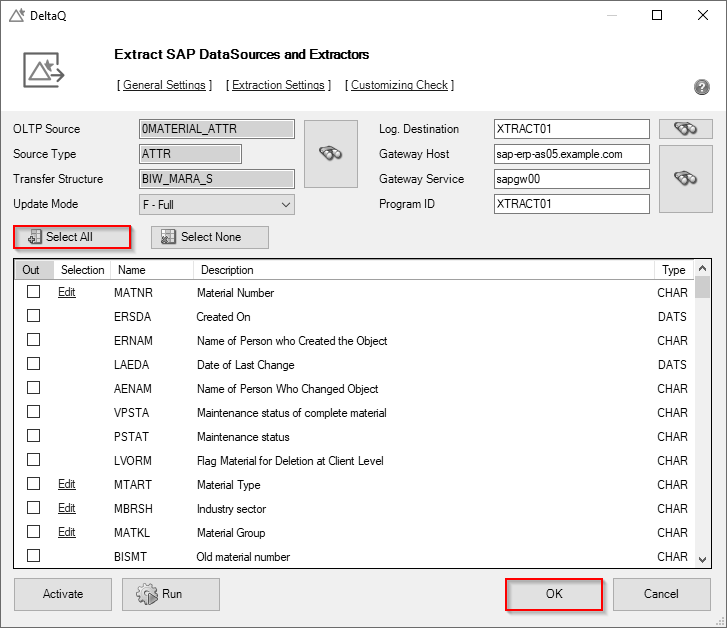
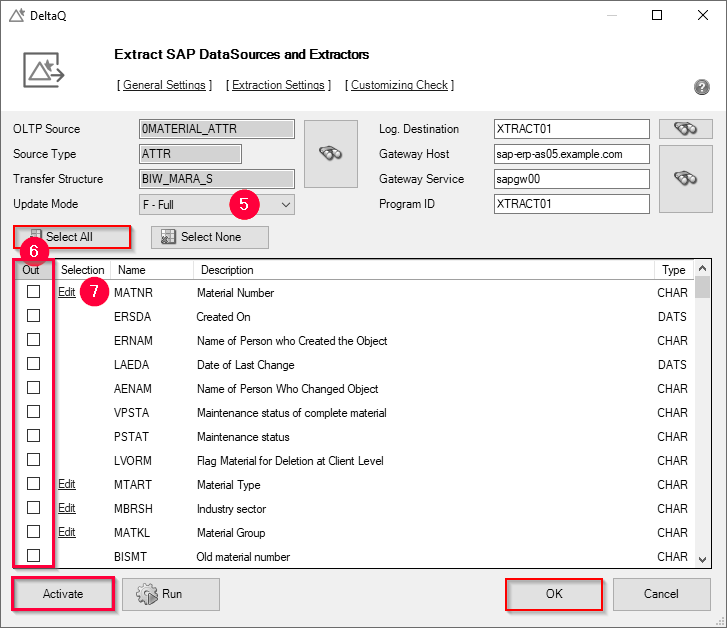
Define Extraction

Changed region(s): [[0.0, 0.3631, 0.1816, 0.9984], [0.3026, 0.3025, 0.3631, 0.3631]]

diff --git a/_includes/_content/de/datasource-deltaq/eine-deltaq-quelle-definieren.md b/_includes/_content/de/datasource-deltaq/eine-deltaq-quelle-definieren.md
@@ -1,38 +1,34 @@
-### Schritt 1: Extraktor suchen (1)
+### Einen Extraktor finden
 
-Suchen Sie im Editor "Look Up OLTP Source" mit Hilfe der **Suche** (Lupensymbol) nach **OLTP Source** (Datenquelle). Bei Bedarf können Sie Wildcards (*) verwenden.
-
-Das folgende Beispiel zeigt den Download von Materialstammdaten aus der DataSource *0MATERIAL_ATTR*.
-
-![search-ds-mat-attr](/img/content/search-ds-mat-attr.png){:class="img-responsive"}
-
+1. Klicken Sie auf den **[Suchen]** Button (Vergrößerungsglas) im Hauptfenster der DeltaQ-Komponente. Das Fenster “Look Up OLTP Source” öffnet sich.<br>
 ![search-ds-mat-attr](/img/content/search-ds-mat-attr2.png){:class="img-responsive"}
+2. Geben Sie den Namen oder die Beschreibung einer Datenquelle ein (1). Verwenden Sie Wildcards (*), falls nötig.
+3. Klicken Sie auf **[Suchen]** (2) und wählen Sie den Report Ihrer Wahl aus der angezeigten Liste aus (3).<br>
+Das folgende Beispiel zeigt den Download von Materialstammdaten aus der DataSource *0MATERIAL_ATTR*.
+4. Bestätigen Sie die Auswahl mit **[OK]** (4).
 
-### Schritt 2: Update Mode einstellen (2)
+### Eine DeltaQ-Extraktion definieren
+Nachdem Sie einen Extraktor gefunden haben, führen Sie die folgenden Schritte aus:
 
-Das **Full** Update fordert alle Daten an, die den von Ihnen eingestellten Auswahlkriterien entsprechen. Um eine echte **Delta**-Prozedur zum Laufen zu bringen, muss das Delta zunächst initialisiert werden, siehe unter [Delta](./datasource-delta).<br>
-Um eine Übersicht zu erhalten, welche Aktualisierungsmodi zur Verfügung stehen, siehe unter [Update Mode](./update-modus).
-
-### Schritt 3: Spalten auswählen
-
-Setzen Sie die Häkchen neben den Spalten, die Sie extrahieren möchten. Beispiel:
-
+1. Wählen Sie einen *Update Mode* aus (5). <br>
+Das **Full** Update fordert alle Daten an, die den von Ihnen eingestellten Auswahlkriterien entsprechen. 
+Um eine echte **Delta**-Prozedur zum Laufen zu bringen, muss das Delta zunächst initialisiert werden, siehe unter [Delta](./datasource-delta).<br>
+Für mehr Informationen zu den verfügbaren Aktualisierungsmodi, siehe [Update Mode](./update-modus).
+2. Setzen Sie die Häkchen neben den Spalten, die Sie extrahieren möchten (6).<br>
 ![Deltaq-Define-Data-Source-Filled](/img/content/Deltaq-Define-Data-Source-Filled.png){:class="img-responsive"}
-
-### Schritt 4: Aktivierung
-
-Wenn die Validierung ohne Fehler abgeschlossen wurde, klicken Sie auf **[Activate]**, um diese Extraktion in SAP zu aktivieren.<br> 
-Nach erfolgreicher Aktivierung erscheinen im Laufe einiger Sekunden die entsprechenden Statusmeldungen:
-
-![Deltaq-System-Parameters-Info](/img/content/Deltaq-System-Parameters-Info.png){:class="img-responsive"}
-
+3. Optional: Fügen Sie falls nötig unter **Selection** Auswahlfilter hinzu (7), um Ihre Daten zu filtern. Für mehr Informationen zu Filtern, siehe [Datasource Parameters](./datasource-parameter).<br>
+4. Validieren Sie Ihre Einstellungen, indem Sie eine Testextraktion ausführen.
+5. Wenn die Validierung ohne Fehler abgeschlossen wurde, klicken Sie auf **[Activate]**, um die Extraktion in SAP zu aktivieren.<br> 
+Nach erfolgreicher Aktivierung erscheinen im Laufe einiger Sekunden die entsprechenden Statusmeldungen:<br>
+![Deltaq-System-Parameters-Info](/img/content/Deltaq-System-Parameters-Info.png){:class="img-responsive"}<br>
 ![Deltaq-Generation-Successfull-Info](/img/content/Deltaq-Generation-Successfull-Info.png){:class="img-responsive"}
 
-Die Aktivierung muss nur für die Modi **Delta**, **Full** oder **Init** durchgeführt werden.
-Löschen Sie die alte Aktivierung, bevor Sie eine neue starten, siehe unter **[Extraction Settings]**.
-Nehmen Sie keine Aktivierung für den Modus **Delta Update** vor. 
+{: .box-note } 
+**Hinweis:** Die Aktivierung muss nur für die Modi **Delta**, **Full** oder **Init** durchgeführt werden. Nehmen Sie keine Aktivierung für den Modus **Delta Update** vor. 
+Bevor Sie eine neue Aktivierung starten, löschen Sie die alte Aktivierung.
 
-### Variablen und Filter
+
+### Variablen
 
 **Variablen** können für die folgenden Einstellungen verwendet werden:
 * **Log. Destination**, 
@@ -40,8 +36,9 @@ Nehmen Sie keine Aktivierung für den Modus **Delta Update** vor.
 * **Gateway Service**,
 * **Program ID**.  
 
-Der **Update Mode** kann auch über eine Variable gesteuert werden, siehe unter **[Extraction Settings]**.
+Der **Update Mode** und **Selection**-Filter können ebenfalls über Variablen gesteuert werden, siehe [Update Mode](./update-modus) und [Datasource Parameters](./datasource-parameter).
 
-**Selection** siehe unter [Datasource Parameters](./datasource-parameter).
- 
-Im Falle von Fehlern siehe [DeltaQ Troubleshooting Guide](https://kb.theobald-software.com/troubleshooting/deltaq-troubleshooting-guide) (in Englisch).
+
+******
+#### Weiterführende Links
+- [DeltaQ Troubleshooting Guide](https://kb.theobald-software.com/troubleshooting/deltaq-troubleshooting-guide).

diff --git a/_includes/_content/en/datasource-deltaq/extraction-define.md b/_includes/_content/en/datasource-deltaq/extraction-define.md
@@ -1,40 +1,36 @@
-### Step 1: Search for extractor (1)
+### Look Up Extractors
 
-Within the editor "Look Up OLTP Source", search for **OLTP Source** (Data Source) by using the **Search** (magnifying glass symbol). You can use wildcards (*), if needed.
-
-The search dialoge "Look Up OLTP Source" opens.
-![search-ds-mat-attr](/img/content/search-ds-mat-attr.png){:class="img-responsive"}
-
-The following example shows the download of material master data from the DataSource *0MATERIAL_ATTR*.
+1. Click **[Search]** (binoculars icon) in the main window of the component. The window “Look Up OLTP Source” opens.
 ![search-ds-mat-attr](/img/content/search-ds-mat-attr2.png){:class="img-responsive"}
+2. Enter a name or description of a *DataSource* (1). Use wildcards ( * ), if needed.
+3. Click **[Search]** (magnifying glass icon) (2) and select the extractor of your choice from the displayed list (3).
+The following example shows the download of material master data from the DataSource *0MATERIAL_ATTR*.
+4. Click **[OK]** (4) to confirm your selection.
 
-### Step 2: Set Update Mode (2)
+### Defining a DeltaQ Extraction
 
+After selecting an Extractor, follow the steps below:
+
+1. Choose an *Update Mode* (5).<br>
 **Full Update** requests all data that meets the selection criteria you set. To get a real **Delta** procedure running, Delta first has to be initialized, see at [Delta](./datasource-delta).<br>
-To get an overview which update modes are available, see at [Update Mode](./update-mode).
-
-### Step 3: Select Columns
-
-Tick the checkmarks next to the columns you would like to extract. See the following example:
-
+For more information on available update modes, see [Update Mode](./update-mode).
+2. Check the boxes of the columns you want to extract (6).<br>
 ![Deltaq-Define-Data-Source-Filled](/img/content/Deltaq-Define-Data-Source-Filled.png){:class="img-responsive"}
-
-### Step 4: Activation
-
-If the validation finished without errors klick on **[Activate]** to activate this extraction in SAP.<br> 
-After successful activation, the corresponding status messages appear in the course of a few seconds:
-
-![Deltaq-System-Parameters-Info](/img/content/Deltaq-System-Parameters-Info.png){:class="img-responsive"}
-
+3. Optional: If applicable, add filters in the **Selection** column to filter your data (7).
+For more information on filtering, see [Datasource Parameters](./datasource-parameters).
+4. Validate your settings by running a test extraction.
+5. If the validation finished without errors klick on **[Activate]** to activate this extraction in SAP.<br> 
+After successful activation, the corresponding status messages appear in the course of a few seconds:<br>
+![Deltaq-System-Parameters-Info](/img/content/Deltaq-System-Parameters-Info.png){:class="img-responsive"}<br>
 ![Deltaq-Generation-Successfull-Info](/img/content/Deltaq-Generation-Successfull-Info.png){:class="img-responsive"}
 
-Once activated successfully, the extraction can be executed. 
-
-The activation must only be done for **Delta**, **Full** or **Init** modes.
-Delete the old activation before starting a new one, see at **[Extraction Settings]**.
+{: .box-note } 
+**Note:** The activation must only be done for **Delta**, **Full** or **Init** modes.
 Don't make any activation for the **Delta Update** mode. 
+Delete the old activation before starting a new one.
 
-### Variables and Filters
+
+### Variables
 
 **Variables** can be used for the following settings:
 * **Log. Destination**, 
@@ -42,8 +38,8 @@ Don't make any activation for the **Delta Update** mode.
 * **Gateway Service**,
 * **Program ID**. 
 
-The **Update Mode** can be controlled via a variable too, see at **[Extraction Settings]**.
+**Update Mode** and **Selection** filters can be controlled via a variable too, see [Update Mode](./update-mode) and [Datasource Parameters](./datasource-parameters).
 
-**Filters** see at [Datasource Parameters](./datasource-parameters).
- 
-In case of errors, refer to the [DeltaQ Troubleshooting Guide](https://kb.theobald-software.com/troubleshooting/deltaq-troubleshooting-guide). 
+*****
+#### Related Links
+- [DeltaQ Troubleshooting Guide](https://kb.theobald-software.com/troubleshooting/deltaq-troubleshooting-guide). 

diff --git a/content/_en/xtract-is-for-azure/deltaq/extraction-define.md b/content/_en/xtract-is-for-azure/deltaq/extraction-define.md
@@ -10,4 +10,4 @@ weight: 3
 lang: en_GB
 old_url: /Xtract-IS-EN/default.aspx?pageid=master-data-in-full-update
 ---
-{% include _content/en/xis-specific/deltaq/extraction-define.md %}
+{% include _content/en/datasource-deltaq/extraction-define.md %}

diff --git a/content/_en/xtract-is/deltaq/extraction-define.md b/content/_en/xtract-is/deltaq/extraction-define.md
@@ -10,4 +10,4 @@ weight: 3
 lang: en_GB
 old_url: /Xtract-IS-EN/default.aspx?pageid=master-data-in-full-update
 ---
-{% include _content/en/xis-specific/deltaq/extraction-define.md %}
+{% include _content/en/datasource-deltaq/extraction-define.md %}

diff --git a/content/_de/xtract-is/xtract-is-deltaq/stammdaten-im-full-update.md b/content/_de/xtract-is/xtract-is-deltaq/stammdaten-im-full-update.md
@@ -10,4 +10,5 @@ weight: 3
 lang: de_DE
 progressstate: 5
 ---
-{% include _content/de/xis-specific/xtract-is-deltaq/stammdaten-im-full-update.md %}
+
+{% include _content/de/datasource-deltaq/eine-deltaq-quelle-definieren.md %}

diff --git a/content/_de/xtract-is-for-azure/xtract-is-deltaq/stammdaten-im-full-update.md b/content/_de/xtract-is-for-azure/xtract-is-deltaq/stammdaten-im-full-update.md
@@ -10,4 +10,4 @@ weight: 3
 lang: de_DE
 progressstate: 5
 ---
-{% include _content/de/xis-specific/xtract-is-deltaq/stammdaten-im-full-update.md %}
+{% include _content/de/datasource-deltaq/eine-deltaq-quelle-definieren.md %}
